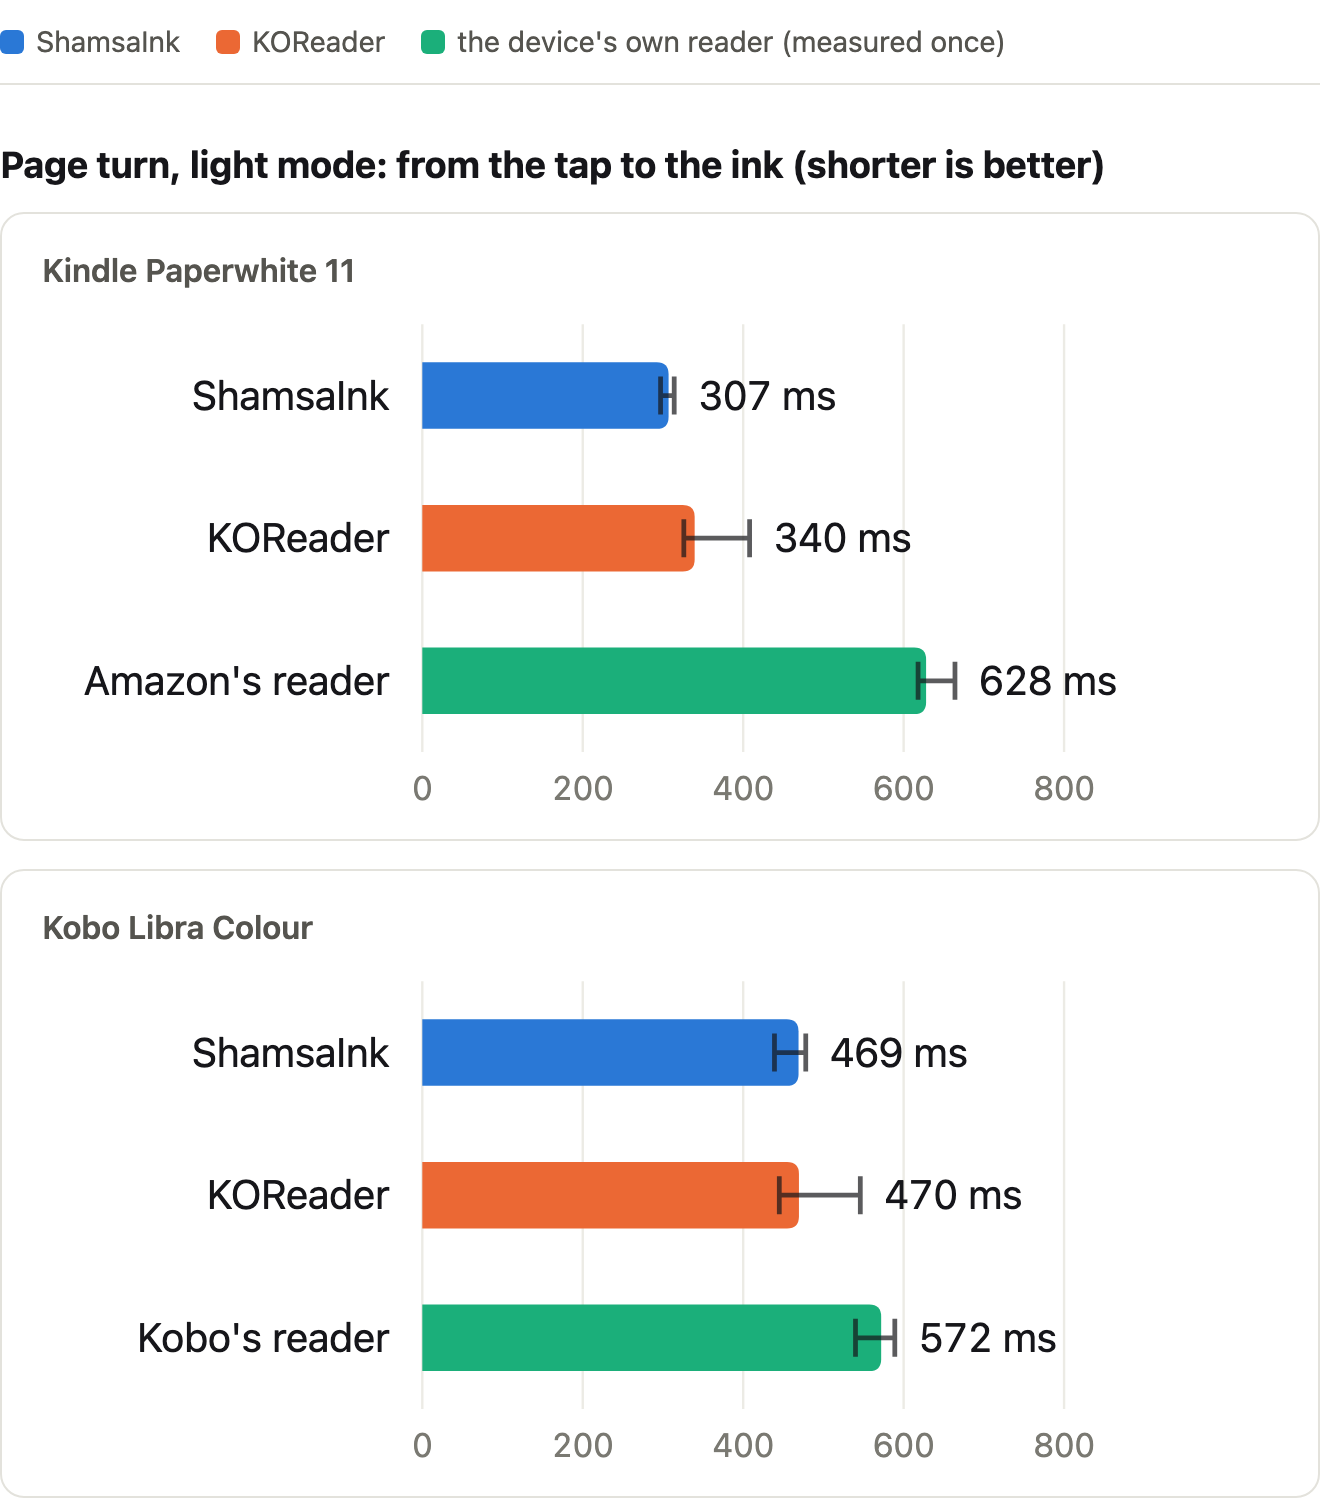
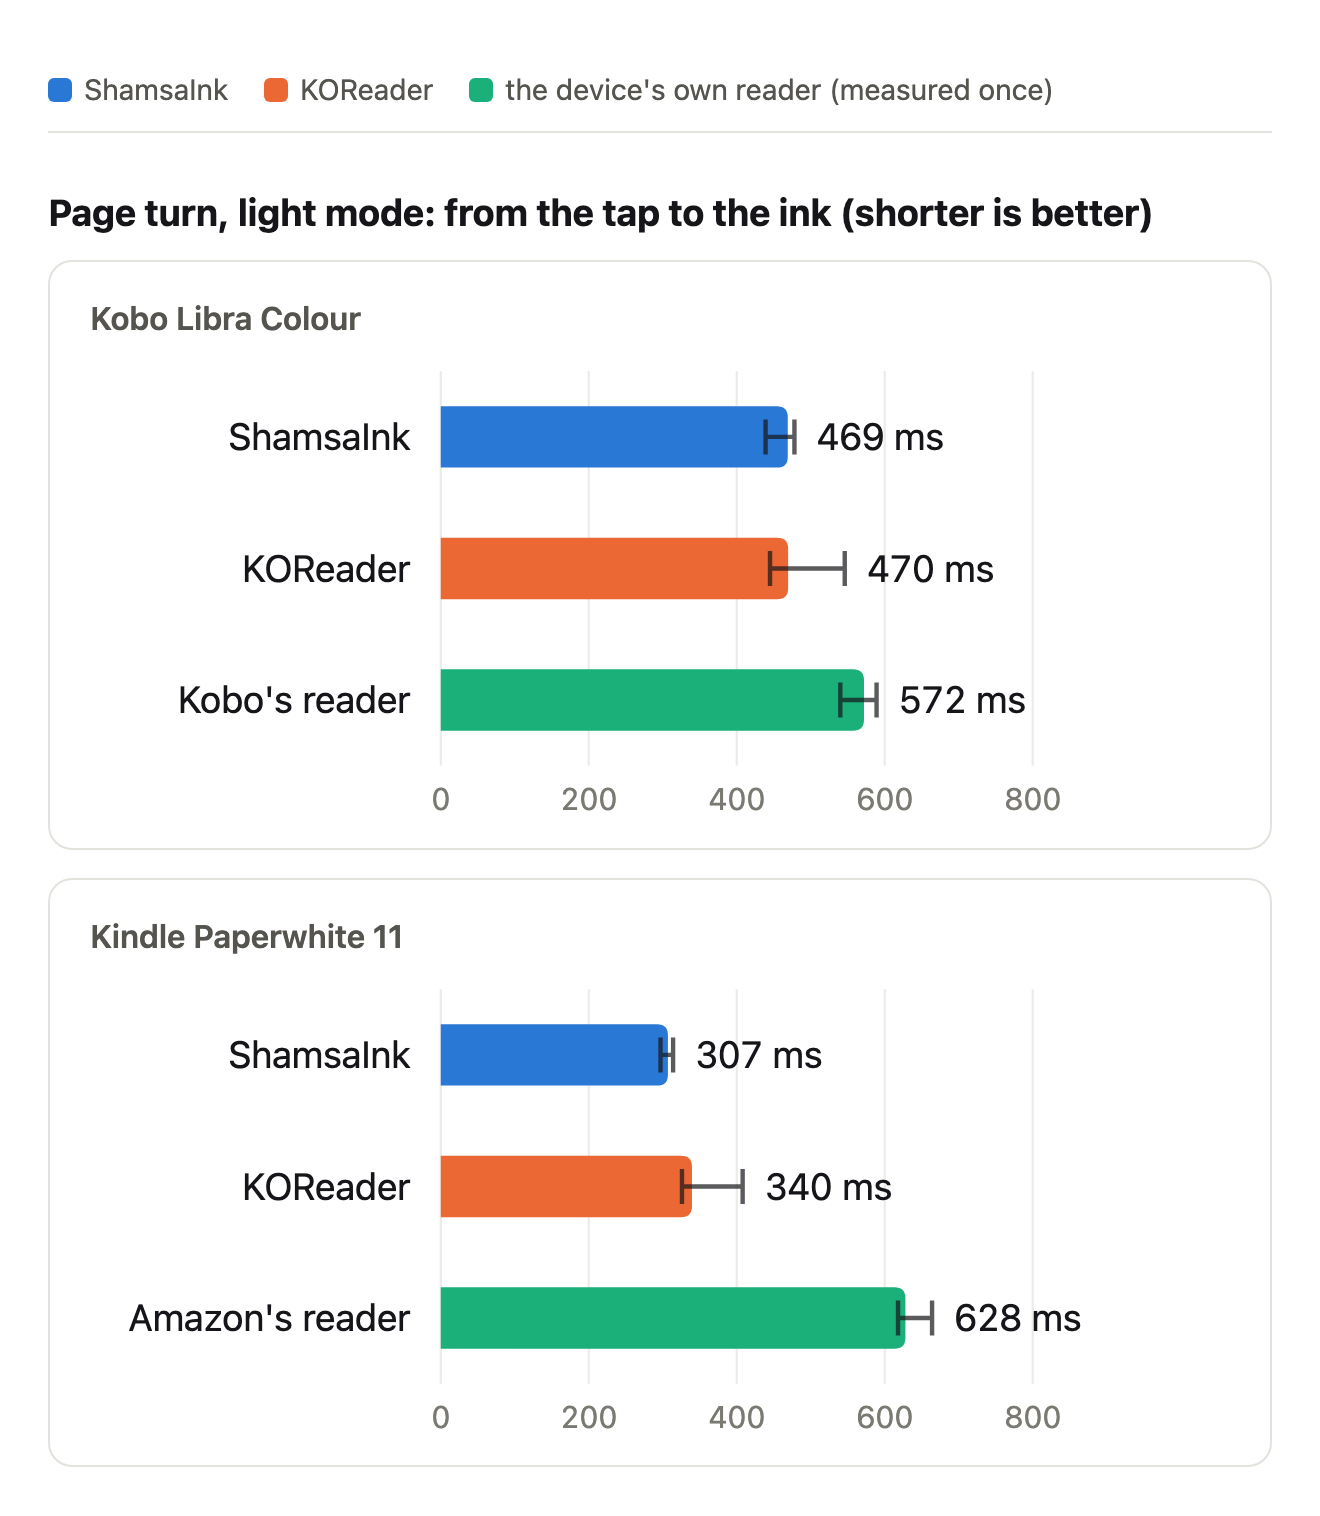
README: the page-turn chart with a margin of its own, the Kobo first
GitHub drops a README picture's CSS, so the margin is drawn into it (24 px); the Kobo, the
main device, comes first whatever order the results load in.

diff --git a/perf/summary.template.html b/perf/summary.template.html
@@ -56,7 +56,7 @@ const NAMES = { shamsaink: "ShamsaInk", koreader: "KOReader", "kobo-libra-colour
 const BUILTIN = { "kobo-libra-colour": "Kobo's reader", "kindle-paperwhite-11": "Amazon's reader" };
 const name = k => NAMES[k] || k;
 const label = (r, dev) => r === "built-in" ? (BUILTIN[dev] || "built-in") + (CHART_W < 900 ? "" : " (once)") : name(r);
-const devices = [...new Set(DATA.map(e => e.device))];
+const devices = [...new Set(DATA.map(e => e.device))].sort((a, b) => b.startsWith("kobo") - a.startsWith("kobo") || a.localeCompare(b)); // the Kobo first, the main device
 const color = r => `var(--s${readers.indexOf(r) + 1})`;
 const fmt = (v, u) => u === "s" ? (v / 1000).toFixed(2) + " s" : u === "MB" ? Math.round(v) + " MB" : Math.round(v) + " ms";
 let CHART_W = 900; // the chart's own width: narrower (bigger text once shrunk) for the README's picture
@@ -122,14 +122,14 @@ function render() {
 if (location.hash === "#turns" && DATA.length) {
   document.documentElement.classList.add("light"); // the README's picture: light whatever the system's theme
   CHART_W = 520;                  // bigger text once shrunk to the README's width
-  document.body.style.padding = "0"; // its left edge the README table's
+  document.body.style.padding = "24px"; // a margin of its own: a README cannot pad a picture
   for (const q of ["header", "details", "#modes"]) document.querySelector(q).style.display = "none";
   document.querySelector(".controls").style.position = "static";
   mode = "light";
   render();
   document.querySelectorAll("#charts section").forEach((s, i) => { if (i) s.remove(); });
   document.querySelector("#charts h2").textContent = "Page turn, light mode: from the tap to the ink (shorter is better)";
-  document.title = "height " + Math.ceil(document.getElementById("charts").getBoundingClientRect().bottom + 4); // for the picture's size (perf/summarize.py --png)
+  document.title = "height " + Math.ceil(document.getElementById("charts").getBoundingClientRect().bottom + 24); // for the picture's size (perf/summarize.py --png)
 } else if (DATA.length) render();
 else document.getElementById("charts").innerHTML = "<p>This is the template. The results are in perf/out/summary.html, written by python3 -I perf/summarize.py (make perf runs it).</p>";
 </script>
